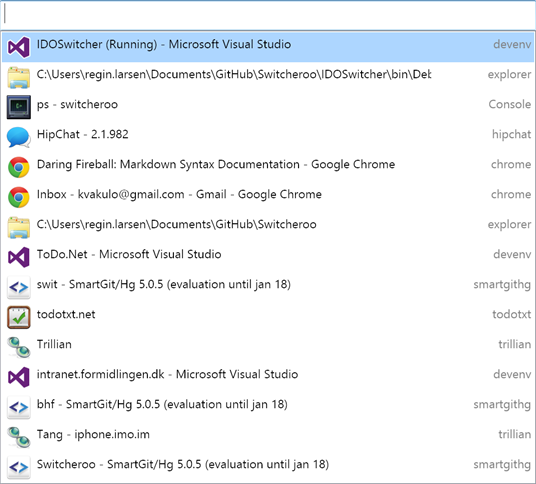
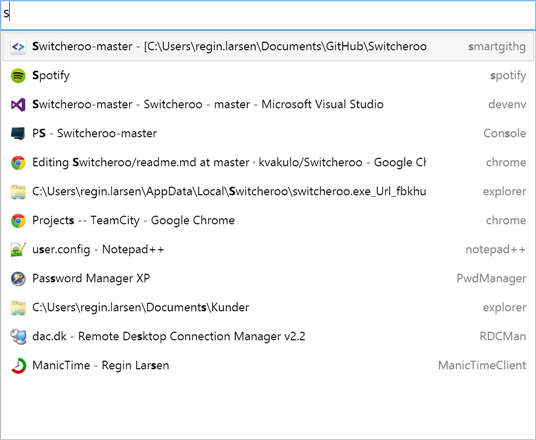
Update README and screenshot

Changed region(s): [[0.0, 0.0, 1.0, 1.0], [0.2687, 0.2068, 0.7164, 0.2659]]

diff --git a/readme.md b/readme.md
@@ -1,4 +1,4 @@
-Switcheroo
+Switcheroo  [![Build Status](http://img.shields.io/teamcity/codebetter/Switcheroo.svg?style=flat)](http://teamcity.codebetter.com/project.html?projectId=Switcheroo)
 ==========
 
 Switcheroo is for anyone who spends more time using a keyboard than a mouse.
@@ -8,6 +8,4 @@ It's inspired by Emacs's IDO mode buffer switching and JetBrains' ReSharper.
 
 [Go to Switcheroo's homepage](http://www.switcheroo.io)
 
-TeamCity
---------
-* `master`: [![Build status](http://teamcity.codebetter.com/guestAuth/app/rest/builds/buildType:(id:bt1196)/statusIcon)](http://teamcity.codebetter.com/project.html?projectId=Switcheroo&tab=projectOverview)
+![Screenshot of Switcheroo](screenshot.png)
